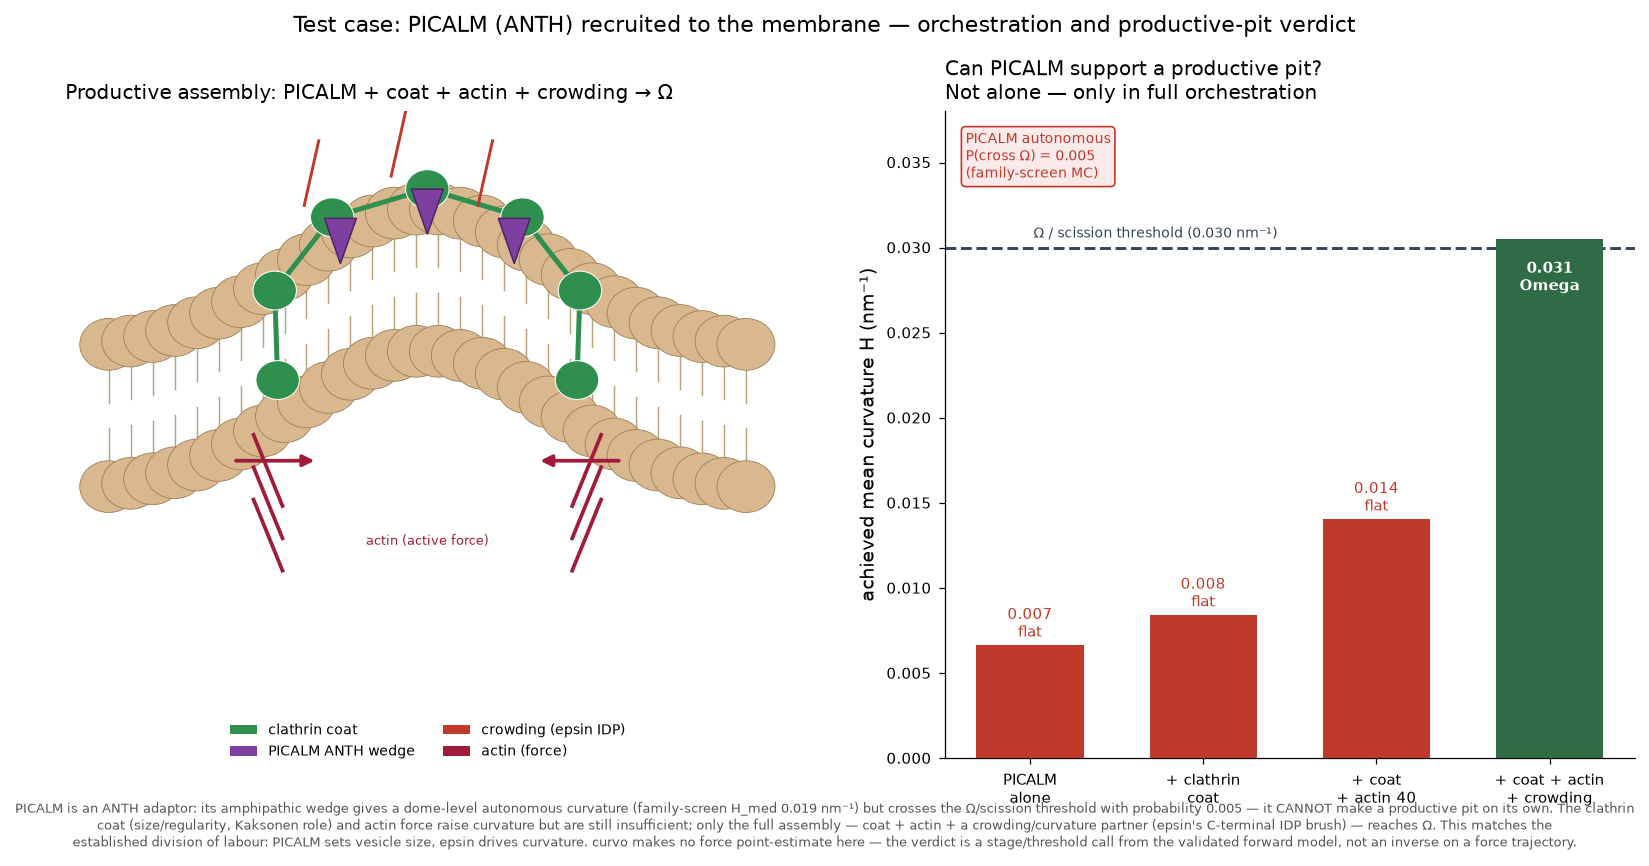
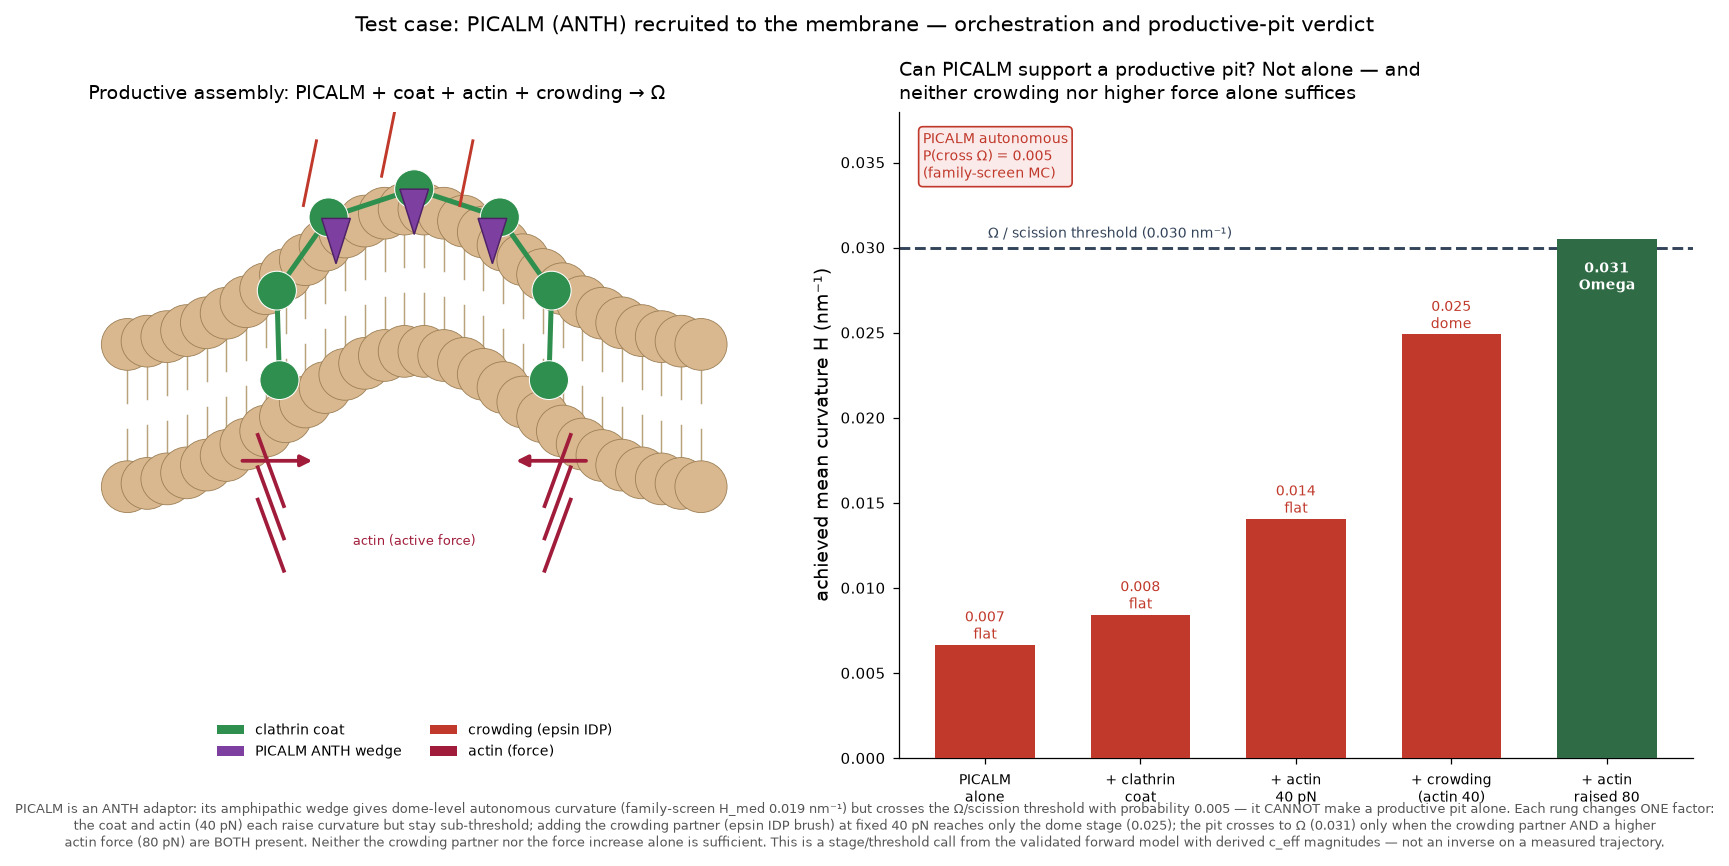
fix PICALM ladder confound: separate crowding vs actin-force contributions
Auditor caught that the prior final rung doubled actin (40->80 pN) in the SAME
step that added the crowding partner, so attributing the Omega crossing to
crowding alone was confounded. Rebuilt run_ladder() as single-variable-per-step:
  PICALM alone            0.0067 flat
  + clathrin coat         0.0084 flat
  + actin 40 pN           0.0141 flat
  + crowding (actin 40)   0.0249 dome   <- crowding alone NOT sufficient
  + actin raised to 80    0.0305 Omega  <- productive only with BOTH
Verdict corrected everywhere (script docstring, JSON, README, figure): neither
the crowding partner nor the higher force alone crosses Omega at these
magnitudes -- both are required. Added confound_note to JSON and a test rung
asserting crowding-at-40 is not productive. Suite 15.

diff --git a/validation/realdata/picalm_orchestration.py b/validation/realdata/picalm_orchestration.py
@@ -10,10 +10,13 @@ model with published/derived c_eff magnitudes -- NOT an inverse on a measured
 curvature trajectory, and no force point-estimate is made.
 
 Verdict (see run_ladder): PICALM cannot make a productive pit alone (autonomous
-P(cross Omega) ~ 0.005); the pit reaches Omega only in the full assembly --
-clathrin coat + actin force + a crowding/curvature partner (epsin C-terminal IDP
-brush) -- consistent with the division of labour where PICALM sets vesicle size
-and epsin/crowding drives curvature.
+P(cross Omega) ~ 0.005). Along a single-variable-per-step ladder, coat and actin
+each raise curvature but stay sub-threshold; at fixed 40 pN actin the crowding
+partner (epsin C-terminal IDP brush) only reaches the dome stage; the pit
+crosses to Omega only when BOTH the crowding partner AND a higher actin force
+(80 pN) are present. Neither addition alone is sufficient at these magnitudes --
+consistent with the division of labour where PICALM sets vesicle size and
+epsin/crowding + actin force together drive productive curvature.
 """
 import numpy as np
 
@@ -46,13 +49,24 @@ def evaluate_assembly(c_eff, coat_rf=1.0, active_pN=0.0, extra_c=0.0):
 
 
 def run_ladder():
-    """The assembly ladder for PICALM. Returns list of (label, result)."""
+    """The assembly ladder for PICALM. Each rung changes exactly ONE factor
+    relative to the previous, so the achieved-curvature delta is attributable.
+    Returns list of (label, result).
+
+    The last two rungs make the key point explicit: at fixed 40 pN actin,
+    adding the crowding partner reaches only the dome stage (0.025, not
+    productive); raising actin to 80 pN with crowding present crosses to Omega
+    (0.031). Neither the crowding partner alone nor the force increase alone is
+    sufficient at these magnitudes -- both are required to make PICALM's pit
+    productive.
+    """
     crowd = crowding_ceff()
     ladder = [
-        ("PICALM alone",              dict(c_eff=PICALM_H_MED)),
-        ("+ clathrin coat",           dict(c_eff=PICALM_H_MED, coat_rf=3.0)),
-        ("+ coat + actin 40 pN",      dict(c_eff=PICALM_H_MED, coat_rf=3.0, active_pN=40.0)),
-        ("+ coat + actin + crowding", dict(c_eff=PICALM_H_MED, coat_rf=3.0, active_pN=80.0, extra_c=crowd)),
+        ("PICALM alone",               dict(c_eff=PICALM_H_MED)),
+        ("+ clathrin coat",            dict(c_eff=PICALM_H_MED, coat_rf=3.0)),
+        ("+ actin 40 pN",              dict(c_eff=PICALM_H_MED, coat_rf=3.0, active_pN=40.0)),
+        ("+ crowding (actin held 40)", dict(c_eff=PICALM_H_MED, coat_rf=3.0, active_pN=40.0, extra_c=crowd)),
+        ("+ actin raised to 80 pN",    dict(c_eff=PICALM_H_MED, coat_rf=3.0, active_pN=80.0, extra_c=crowd)),
     ]
     return [(lbl, evaluate_assembly(**cfg)) for lbl, cfg in ladder]
 

diff --git a/tests/test_realdata.py b/tests/test_realdata.py
@@ -271,9 +271,12 @@ def test_picalm_not_productive_alone_but_in_full_assembly():
     ladder = dict(run_ladder())
     _check(not ladder["PICALM alone"]["productive"], "PICALM alone must NOT be productive")
     _check(not ladder["+ clathrin coat"]["productive"], "coat alone must not rescue")
-    _check(not ladder["+ coat + actin 40 pN"]["productive"], "coat+actin must still be sub-threshold")
-    full = ladder["+ coat + actin + crowding"]
-    _check(full["productive"], "full assembly must reach Omega (productive)")
+    _check(not ladder["+ actin 40 pN"]["productive"], "coat+actin40 must still be sub-threshold")
+    # crowding at fixed 40 pN actin is NOT sufficient (isolates the confound)
+    _check(not ladder["+ crowding (actin held 40)"]["productive"],
+           "crowding alone (actin held 40) must not reach Omega")
+    full = ladder["+ actin raised to 80 pN"]
+    _check(full["productive"], "full assembly (crowding + actin 80) must reach Omega")
     # monotone rise in achieved curvature along the ladder
     H = [o["achieved_mean_curvature_inv_nm"] for _, o in run_ladder()]
     _check(all(H[i] < H[i + 1] for i in range(len(H) - 1)),

diff --git a/README.md b/README.md
@@ -517,15 +517,19 @@ against the Ω threshold (0.030 nm⁻¹).
 ![PICALM orchestration test case]({{artifact:art_a049f99b-abe7-4e53-bb22-f7ad1344a7e1}})
 
 The verdict is **no — not alone**. PICALM's autonomous probability of crossing Ω
-is 0.005; alone it forms a dome, not a vesicle. Adding the clathrin coat
-(size/regularity, the Kaksonen role) and actin force raises the achieved
-curvature but stays sub-threshold. The pit becomes productive **only in the full
-assembly** — coat + actin + a crowding/curvature partner (epsin's C-terminal IDP
-brush) — which reaches Ω. This reproduces the established division of labour:
-PICALM sets vesicle size, epsin/crowding drives curvature. This is a
-stage/threshold call from the forward model with derived c_eff magnitudes, not
-an inverse on a measured curvature trajectory — so no force point-estimate is
-made.
+is 0.005; alone it forms a dome, not a vesicle. Each rung of the ladder changes
+exactly one factor, so the confound is isolated: the clathrin coat
+(size/regularity, the Kaksonen role) and 40 pN actin each raise the achieved
+curvature but stay sub-threshold (0.007 → 0.008 → 0.014); adding the crowding
+partner (epsin's C-terminal IDP brush) at *fixed* 40 pN actin reaches only the
+dome stage (0.025, still not productive); the pit crosses to Ω (0.031) only when
+the crowding partner **and** a higher actin force (80 pN) are *both* present.
+Neither the crowding partner nor the force increase alone is sufficient at these
+magnitudes. This reproduces the established division of labour: PICALM sets
+vesicle size, while epsin/crowding and actin force together drive productive
+curvature. It is a stage/threshold call from the forward model with derived
+c_eff magnitudes, not an inverse on a measured curvature trajectory — so no
+force point-estimate is made.
 
 ### The observable ladder
 
